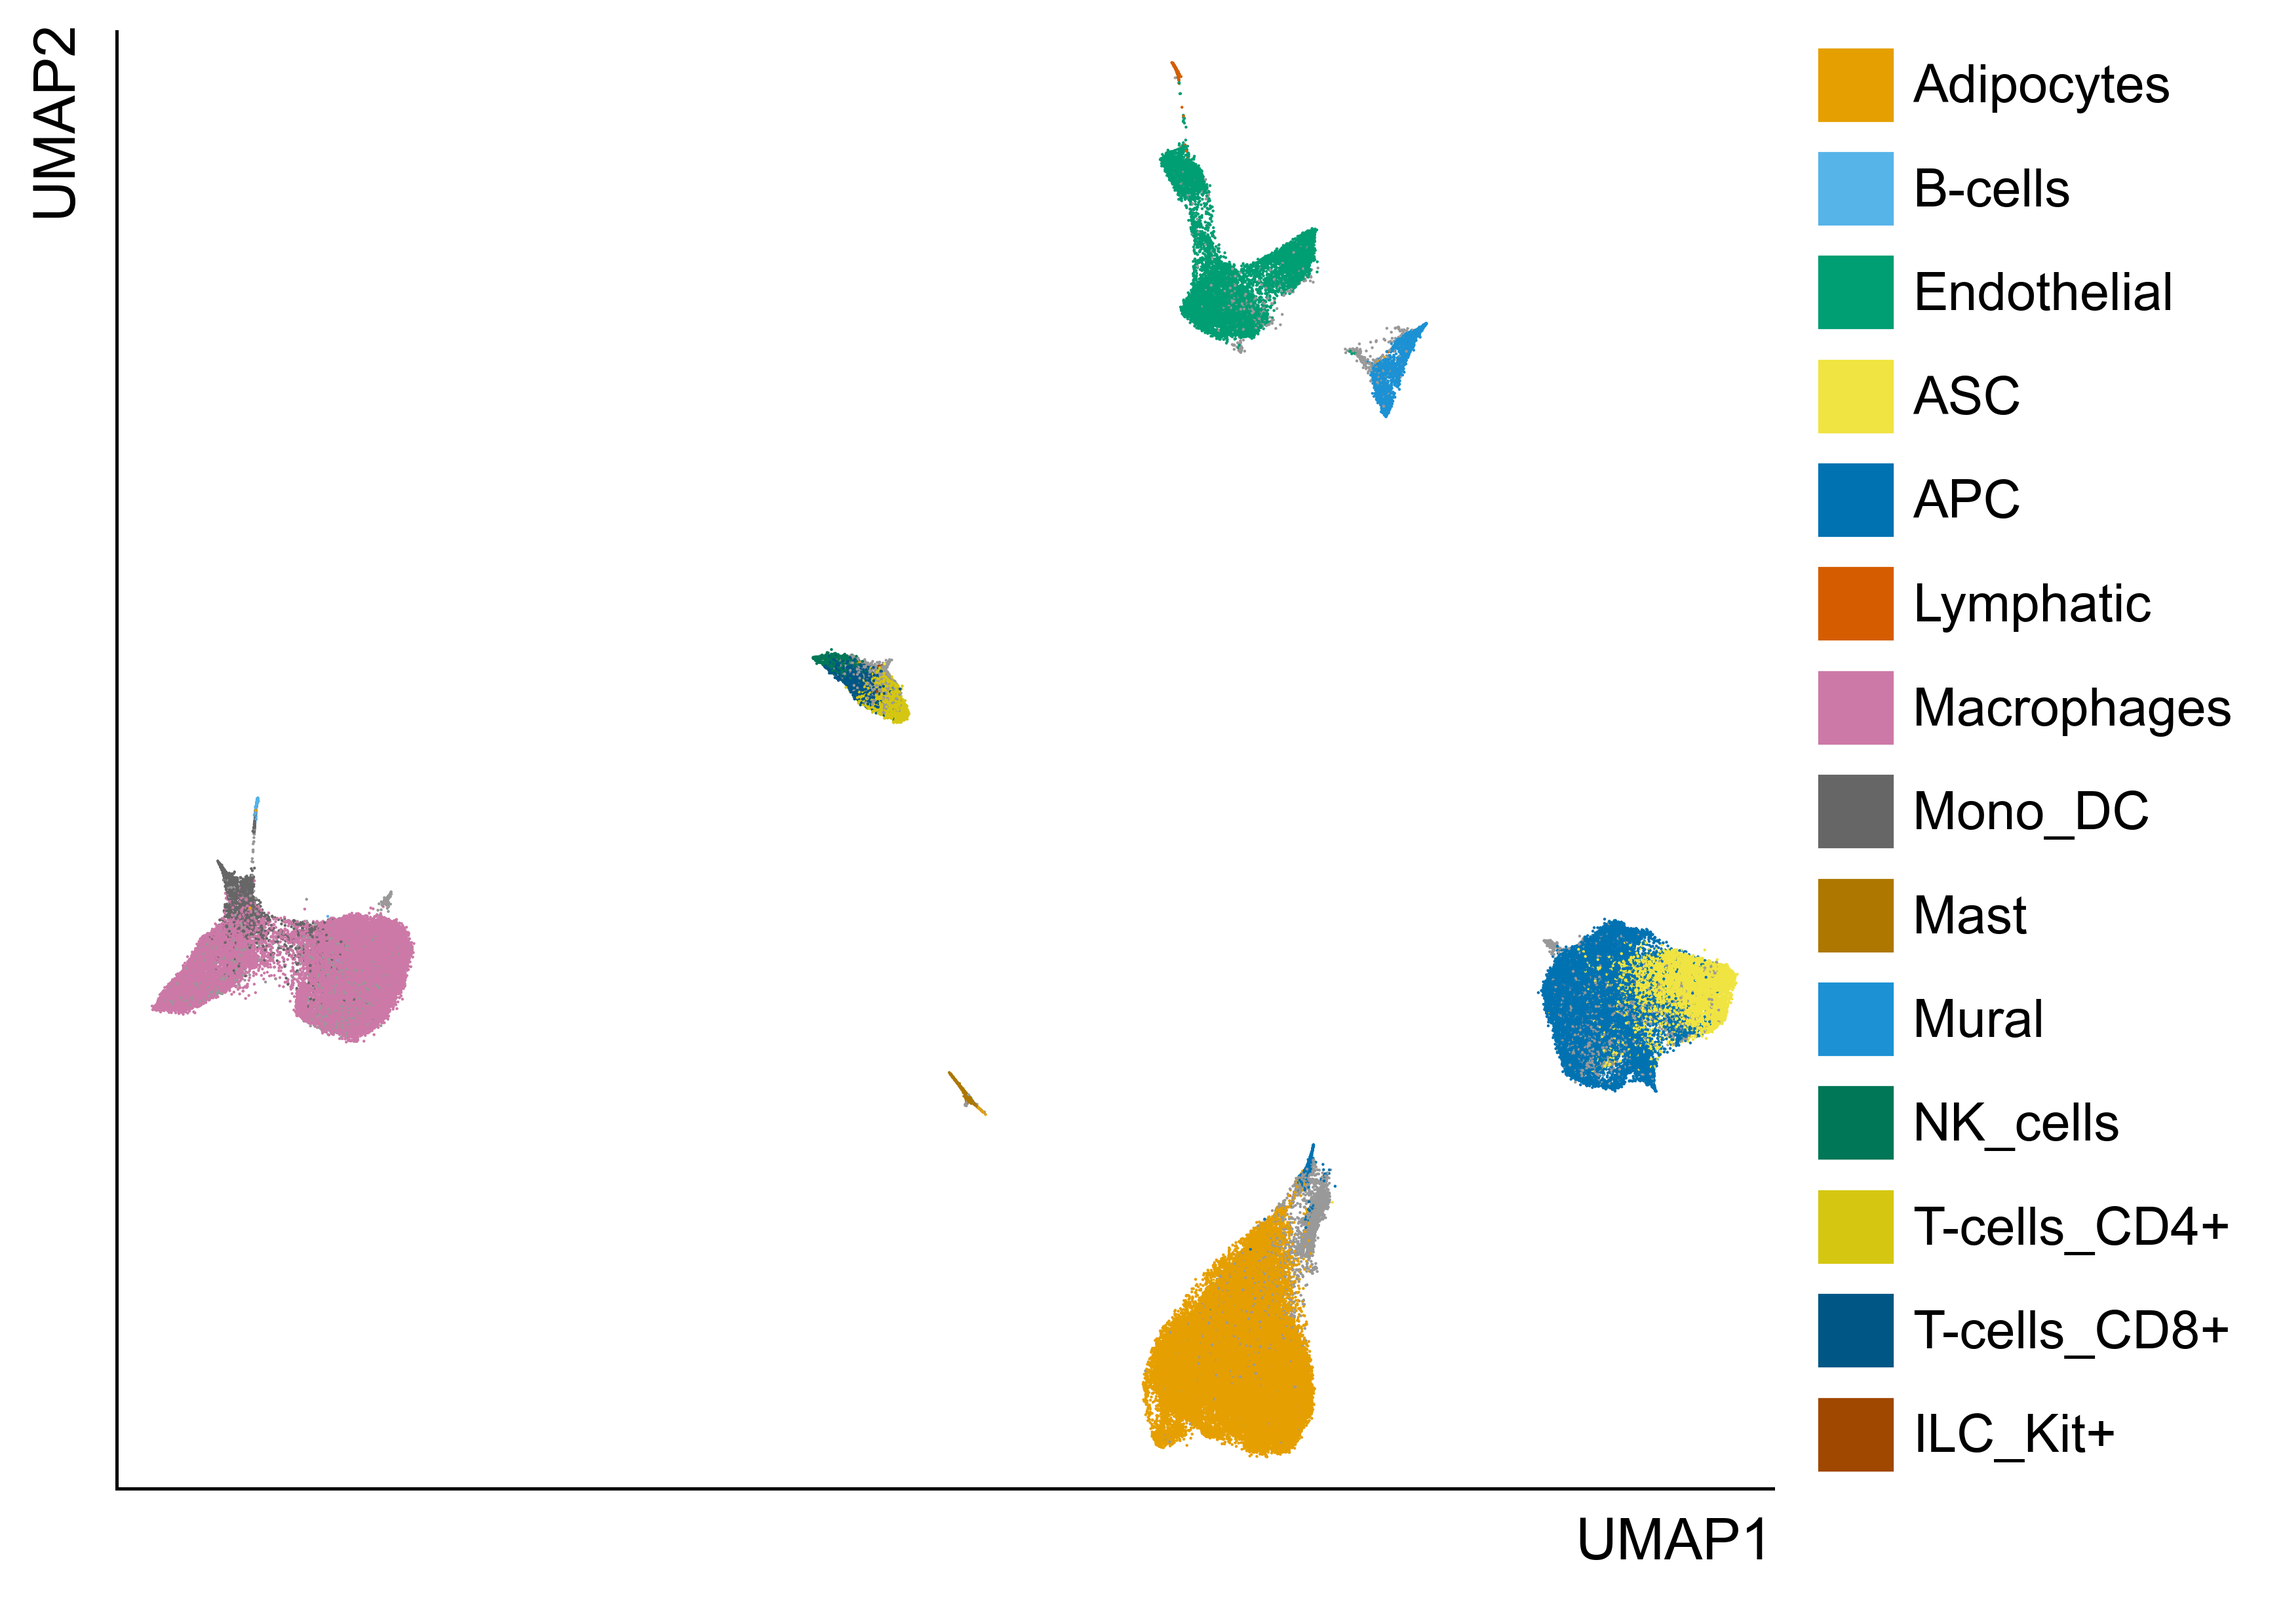
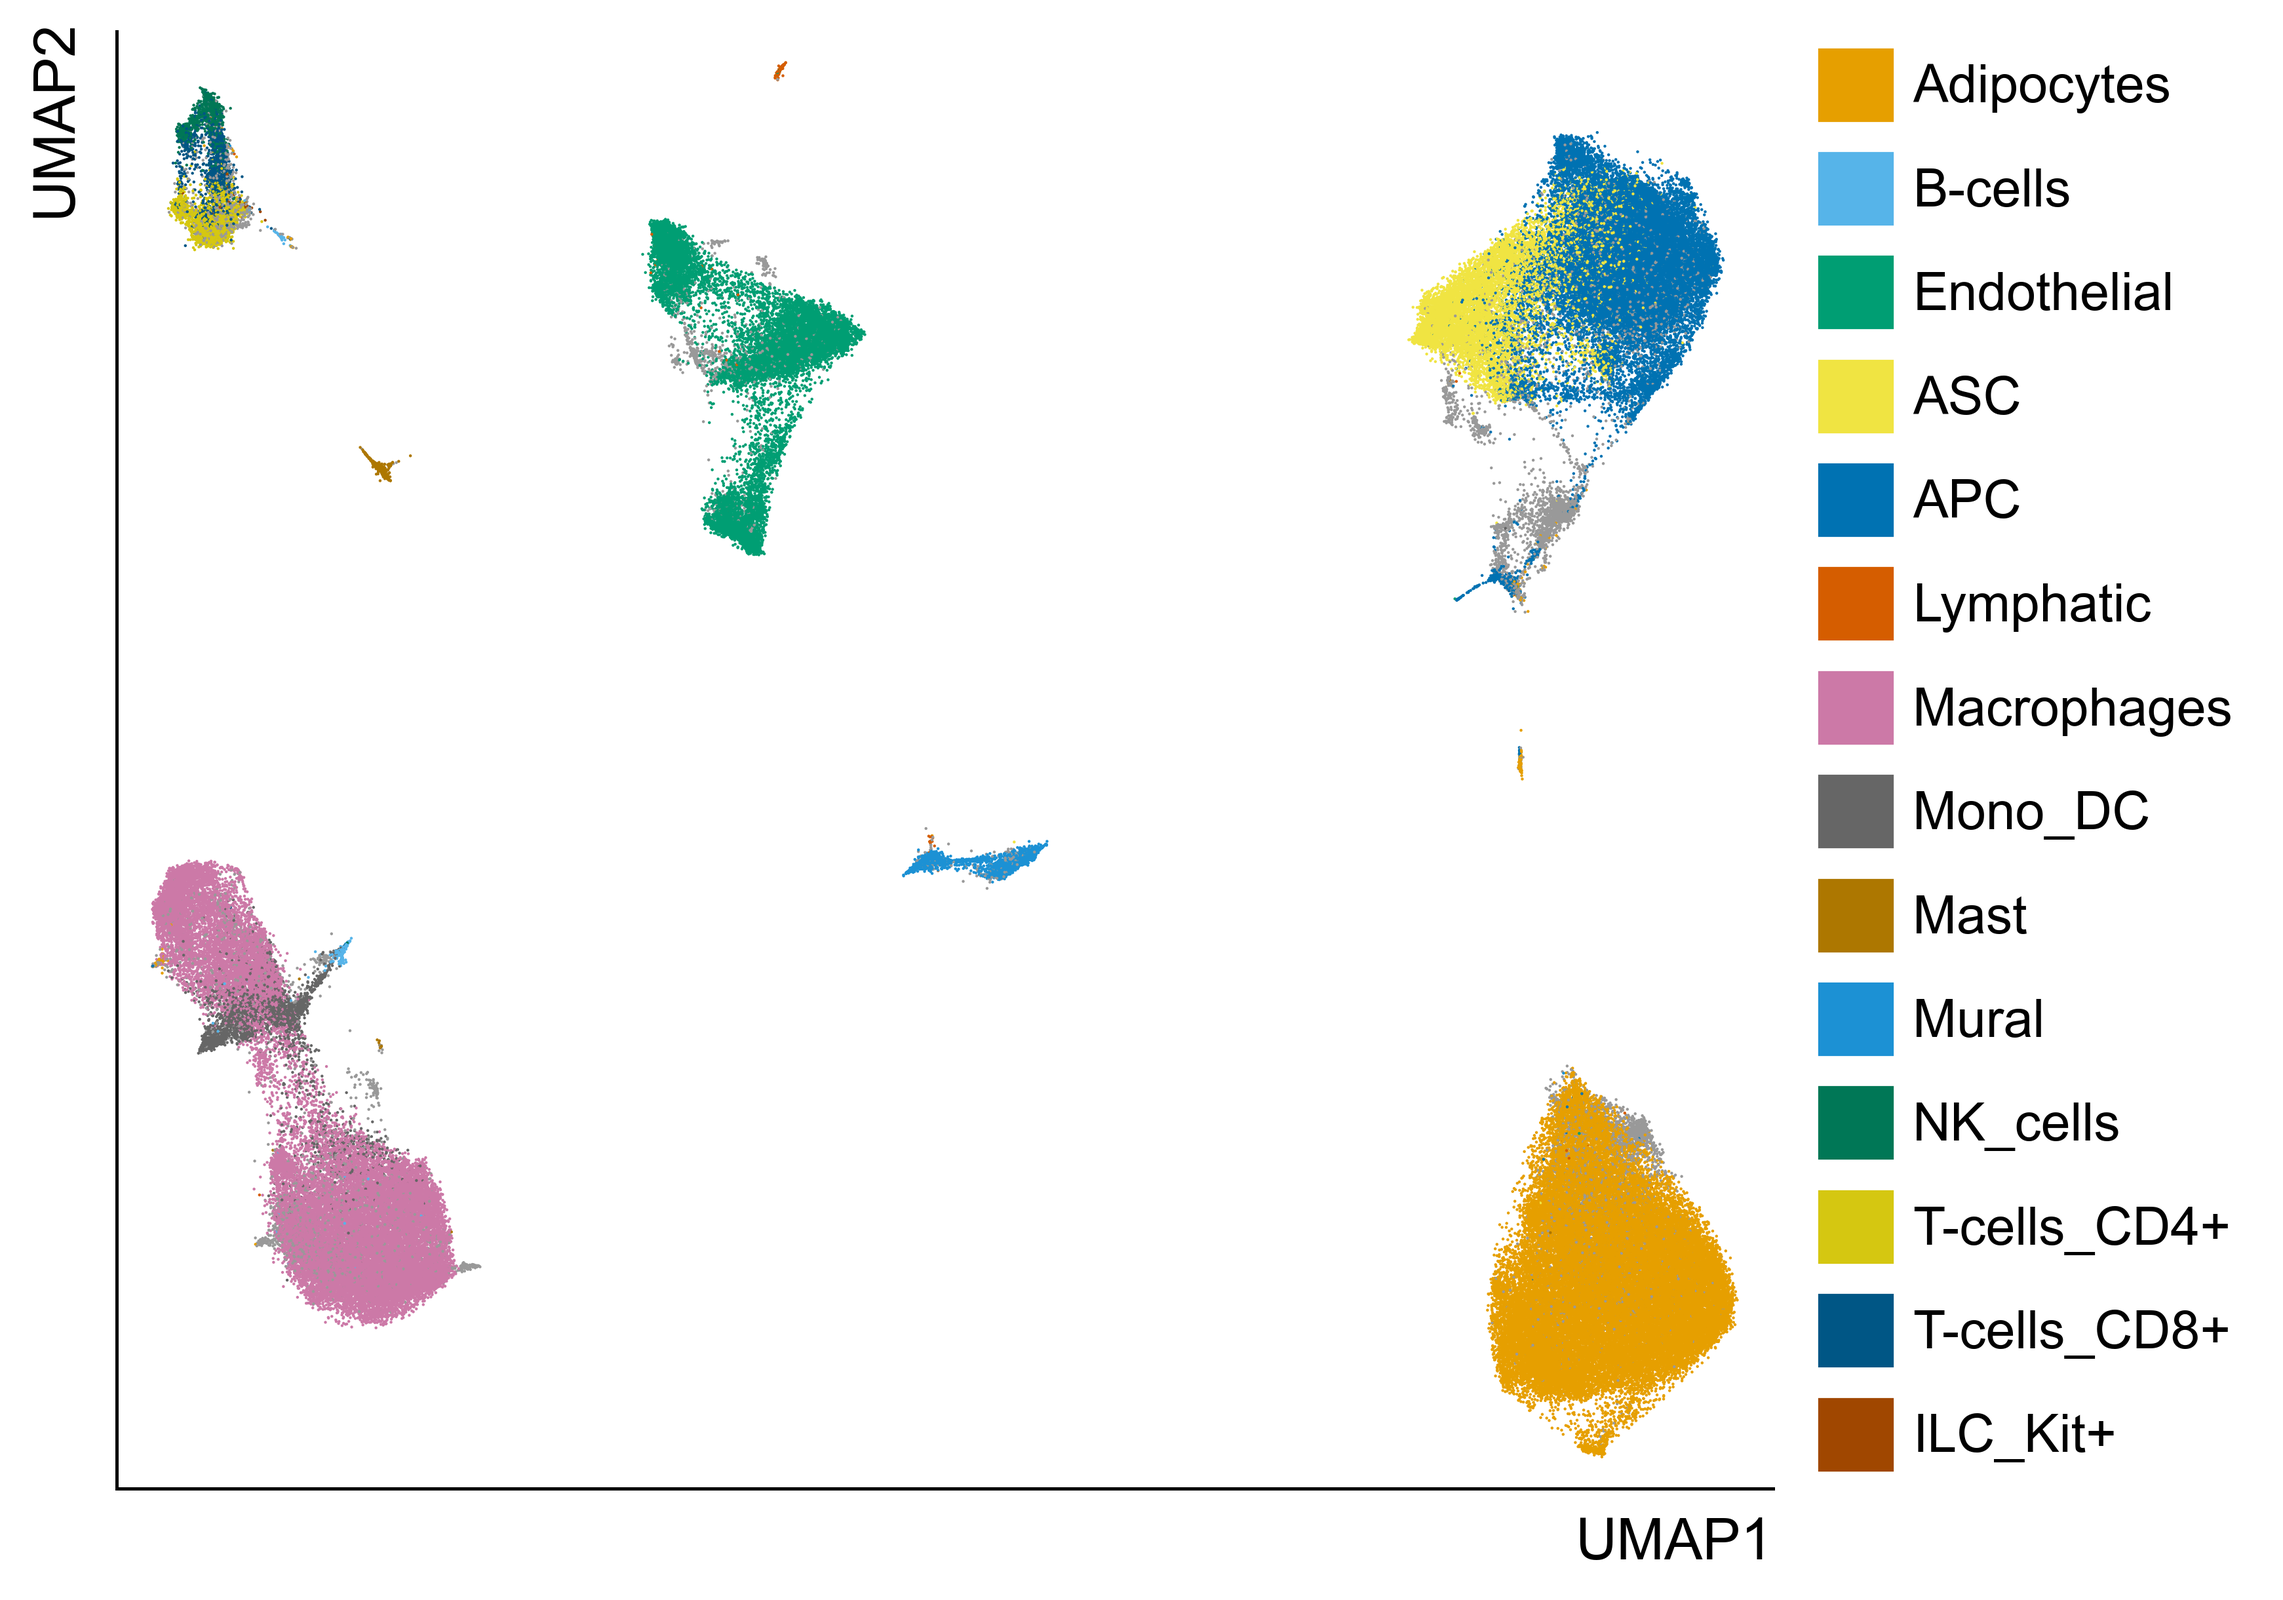
Refactor - Stylistic adjustments and pipeline fix
- Refactor code to remove redundant calls
- Adjust embedding pipeline to remove scaling, commensurate with current recommendations
- Update README figure to reflect fixed global embedding

diff --git a/adipose_atlas/embedding.py b/adipose_atlas/embedding.py
@@ -50,7 +50,7 @@ class DimensionalityReducer:
 
         Pipeline:
             raw counts → normalize to 10k → log1p normalization → subset to HVG
-            → regress out → scale → PCA → Harmony → neighbors
+            → regress out → PCA → Harmony → neighbors
 
         Mutates adata in place. After this function:
           - adata.X contains regressed and scaled HVG matrix
@@ -74,16 +74,16 @@ class DimensionalityReducer:
         self._validate_preprocessing(adata, batch_key, regress_keys)
 
         logger.info("Using raw counts (adata.raw.X).")
-        if "counts" not in adata.layers:
-            adata.layers["counts"] = adata.raw.X
-        adata.X = adata.layers["counts"]
+        adata.X = adata.raw.X.copy()  # type: ignore
 
         logger.info(f"Normalizing to {target_sum:.0f} counts per cell...")
-        sc.pp.normalize_total(adata, target_sum=float(target_sum))
+
+        sc.pp.normalize_total(adata, target_sum=target_sum)
 
         logger.info("Log1p transforming...")
         sc.pp.log1p(adata)
-        adata.raw = adata
+
+        adata.raw = adata.copy()
 
         logger.info("Computing highly variable genes...")
         sc.pp.highly_variable_genes(
@@ -100,15 +100,10 @@ class DimensionalityReducer:
         sc.pp.regress_out(adata, keys)
 
         logger.info(f"Scaling (max_value={scale_max_value})...")
-        sc.pp.scale(adata, max_value=float(scale_max_value))
+        # sc.pp.scale(adata, max_value=scale_max_value)
 
         logger.info(f"Computing PCA (n_comps={n_pcs})...")
-        sc.tl.pca(
-            adata,
-            svd_solver="arpack",
-            n_comps=int(n_pcs),
-            random_state=int(seed),
-        )
+        sc.tl.pca(adata, svd_solver="arpack", n_comps=n_pcs, random_state=seed)
 
         logger.info(f"Running Harmony (batch_key={batch_key})...")
         ho = hm.run_harmony(
@@ -118,19 +113,19 @@ class DimensionalityReducer:
             epsilon_harmony=-float("Inf"),
             epsilon_cluster=-float("Inf"),
             tau=harmony_tau,
-            max_iter_kmeans=int(harmony_max_iter_kmeans),
-            max_iter_harmony=int(harmony_max_iter),
-            random_state=int(seed),
-            device="cpu",  # force cpu to avoid apple silicon GPU issues
+            max_iter_kmeans=harmony_max_iter_kmeans,
+            max_iter_harmony=harmony_max_iter,
+            random_state=seed,
+            device="cpu",
         )
 
-        Z = self._coerce_harmony_output(
+        ho_shape_corrected = self._coerce_harmony_output(
             ho.Z_corr,
             n_obs=adata.n_obs,
         )
 
-        logger.info(f"Harmony corrected PCA shape: {Z.shape}")
-        adata.obsm["X_pca"] = Z
+        logger.info(f"Harmony corrected PCA shape: {ho_shape_corrected.shape}")
+        adata.obsm["X_pca"] = ho_shape_corrected
         logger.info("Harmony correction applied to adata.obsm['X_pca'].")
 
     def compute_neighbors(
@@ -154,11 +149,11 @@ class DimensionalityReducer:
         sc.pp.neighbors(
             adata=adata,
             use_rep=str(self.config.pca_key),
-            n_pcs=int(n_pcs),
-            n_neighbors=int(n_neighbors),
+            n_pcs=n_pcs,
+            n_neighbors=n_neighbors,
             metric=metric,  # type: ignore
             method=method,  # type: ignore
-            random_state=int(random_state),
+            random_state=random_state,
         )
 
     def compute_embeddings(
@@ -214,18 +209,18 @@ class DimensionalityReducer:
         batch_key: str,
         regress_keys: Sequence[str],
     ) -> None:
+        """Check that adata.raw is present and required obs cols are available."""
         if adata.raw is None:
             raise ValueError(
                 "adata.raw is None. Expected raw integer counts in adata.raw.X."
             )
         required = list(regress_keys) + [batch_key]
-        missing = [k for k in required if k not in adata.obs.columns]
-        if missing:
+        if missing := [k for k in required if k not in adata.obs.columns]:
             raise ValueError(f"Missing required obs columns: {missing}")
 
     @staticmethod
     def _coerce_harmony_output(
-        Z_corr: np.ndarray,
+        z_corr: np.ndarray,
         n_obs: int,
     ) -> np.ndarray:
         """Coerce Harmony output to a NumPy array with shape (n_obs, n_pcs).
@@ -234,25 +229,21 @@ class DimensionalityReducer:
             Z_corr: Harmony-corrected embedding from Harmony output (ho.Z_corr).
             n_obs: Expected number of observations (cells).
         """
-        Z = Z_corr
-        if hasattr(Z, "cpu"):
-            Z = Z.detach().cpu().numpy()  # type: ignore
-        else:
-            Z = np.asarray(Z)
-
+        output = z_corr
+        output = output.detach().cpu().numpy() if hasattr(output, "cpu") else np.asarray(output)  # type: ignore
         # harmonypy sometimes returns (pcs, cells)
-        if Z.ndim != 2:
+        if output.ndim != 2:
             raise ValueError(
-                f"Harmony output must be 2D. Got shape={getattr(Z, 'shape', None)}"
+                f"Harmony output must be 2D. Got shape={getattr(output, 'shape', None)}"
             )
 
-        if Z.shape[0] != n_obs:
-            if Z.shape[1] == n_obs:
-                Z = Z.T
+        if output.shape[0] != n_obs:
+            if output.shape[1] == n_obs:
+                output = output.T
             else:
                 raise ValueError(
-                    f"Harmony  output has unexpected shape {Z.shape}; expected first or second "
+                    f"Harmony output has unexpected shape {output.shape}; expected first or second "
                     f"dimension to equal n_obs={n_obs}."
                 )
 
-        return Z
+        return output

diff --git a/adipose_atlas/spatial_stress.py b/adipose_atlas/spatial_stress.py
@@ -145,12 +145,12 @@ def _resolve_raw_matrix(
     layer over adata.raw then adata.X.
     """
     if layer_for_raw is not None and layer_for_raw in adata.layers:
-        X = adata.layers[layer_for_raw]
+        matrix = adata.layers[layer_for_raw]
     elif adata.raw is not None:
-        X = adata.raw.X
+        matrix = adata.raw.X
     else:
-        X = adata.X
-    return sp.csr_matrix(X) if not sp.issparse(X) else X.tocsr()  # type: ignore
+        matrix = adata.X
+    return matrix.tocsr() if sp.issparse(matrix) else sp.csr_matrix(matrix)  # type: ignore
 
 
 def _build_bin_obs(
@@ -207,15 +207,15 @@ def _aggregate_cells_into_spatial_bins(
 
     # Round coordinates to bin grid and combine with condition to form unique
     # bin keys
-    bin_x = np.round(x_coords[valid] / float(bin_um)).astype(int)
-    bin_y = np.round(y_coords[valid] / float(bin_um)).astype(int)
+    bin_x = np.round(x_coords[valid] / bin_um).astype(int)
+    bin_y = np.round(y_coords[valid] / bin_um).astype(int)
     valid_conditions = conditions[valid]
 
     bin_keys = pd.Series(
         bin_x.astype(str) + "_" + bin_y.astype(str) + "__" + valid_conditions
     )
     bin_codes, bin_uniques = pd.factorize(bin_keys, sort=False)
-    n_bins = int(len(bin_uniques))
+    n_bins = len(bin_uniques)
 
     # Sparse aggregation matrix sums expression across all cells sharing a bin
     aggregation_matrix = sp.csr_matrix(

diff --git a/adipose_atlas/pipelines.py b/adipose_atlas/pipelines.py
@@ -46,15 +46,13 @@ sc.settings.n_jobs = 1
 
 def _ensure_obs_keys(adata: AnnData, keys: List[str]) -> None:
     """Ensure obs has required keys."""
-    missing = [k for k in keys if k not in adata.obs.columns]
-    if len(missing) > 0:
+    if missing := [k for k in keys if k not in adata.obs.columns]:
         raise ValueError(f"Missing required obs keys: {missing}")
 
 
 def _ensure_obsm_keys(adata: AnnData, keys: List[str]) -> None:
     """Ensure obsm has required keys."""
-    missing = [k for k in keys if k not in adata.obsm]
-    if len(missing) > 0:
+    if missing := [k for k in keys if k not in adata.obsm]:
         raise ValueError(f"Missing required obsm keys: {missing}")
 
 

diff --git a/adipose_atlas/visualization/cell_type_abundance.py b/adipose_atlas/visualization/cell_type_abundance.py
@@ -82,12 +82,12 @@ def plot_celltype_abundance(
     )
 
     if category_order is None:
-        categories = [c for c in df[category_key].dropna().unique().tolist()]
+        categories = list(df[category_key].dropna().unique().tolist())
     else:
         categories = list(category_order)
 
     groups = list(group_order)
-    if len(groups) == 0:
+    if not groups:
         raise ValueError("group_order is empty.")
 
     if group_labels is None:

diff --git a/adipose_atlas/spatial_proximity.py b/adipose_atlas/spatial_proximity.py
@@ -47,7 +47,7 @@ class CellStateProximityMatrix:
         self.adata = adata
         self.spatial = spatial
         self.cell_state_key = cell_state_key
-        self.radius_um = float(radius_um)
+        self.radius_um = radius_um
         self.sample_key = sample_key
         self.exclude_states = exclude_states
         self.state_order = list(state_order) if state_order is not None else None

diff --git a/adipose_atlas/utils/loader.py b/adipose_atlas/utils/loader.py
@@ -54,9 +54,7 @@ class AnnDataLoader:
             raise FileNotFoundError(f"Xenium h5ad not found at: {path}")
 
         logger.info(f"Loading Xenium AnnData from {path}...")
-        adata = sc.read_h5ad(path)
-
-        return adata
+        return sc.read_h5ad(path)
 
     def _subsample_copy(self, adata: ad.AnnData) -> ad.AnnData:
         """Subsample the AnnData object.

diff --git a/adipose_atlas/visualization/stress_heatmaps.py b/adipose_atlas/visualization/stress_heatmaps.py
@@ -30,7 +30,7 @@ def plot_spatial_stress_heatmaps(
     """
     _set_matplotlib_publication_parameters()
 
-    n_states = int(len(states))
+    n_states = len(states)
     n_top, n_mid, n_bot = (
         1,
         int(quantile_proportions.shape[0]),

diff --git a/README.md b/README.md
@@ -51,7 +51,7 @@ But the [results were not interpretable](docs/_static/umap_cell_type_umap.png). 
 
 
 ```
-Raw counts → normalize to 10k → log1p normalization → subset to HVG → regress out → scale → PCA → Harmony → neighbors
+Raw counts → normalize to 10k → log1p normalization → subset to HVG → regress out → PCA → Harmony → neighbors
 ```
 The cell type proportion figure is a reproduction of (**Fig. 1d**). I opted to color the projection according to the cell states provided from the original paper as opposed to re-running leiden clustering due to the differences discussed above. The entry point is:
 ```sh
